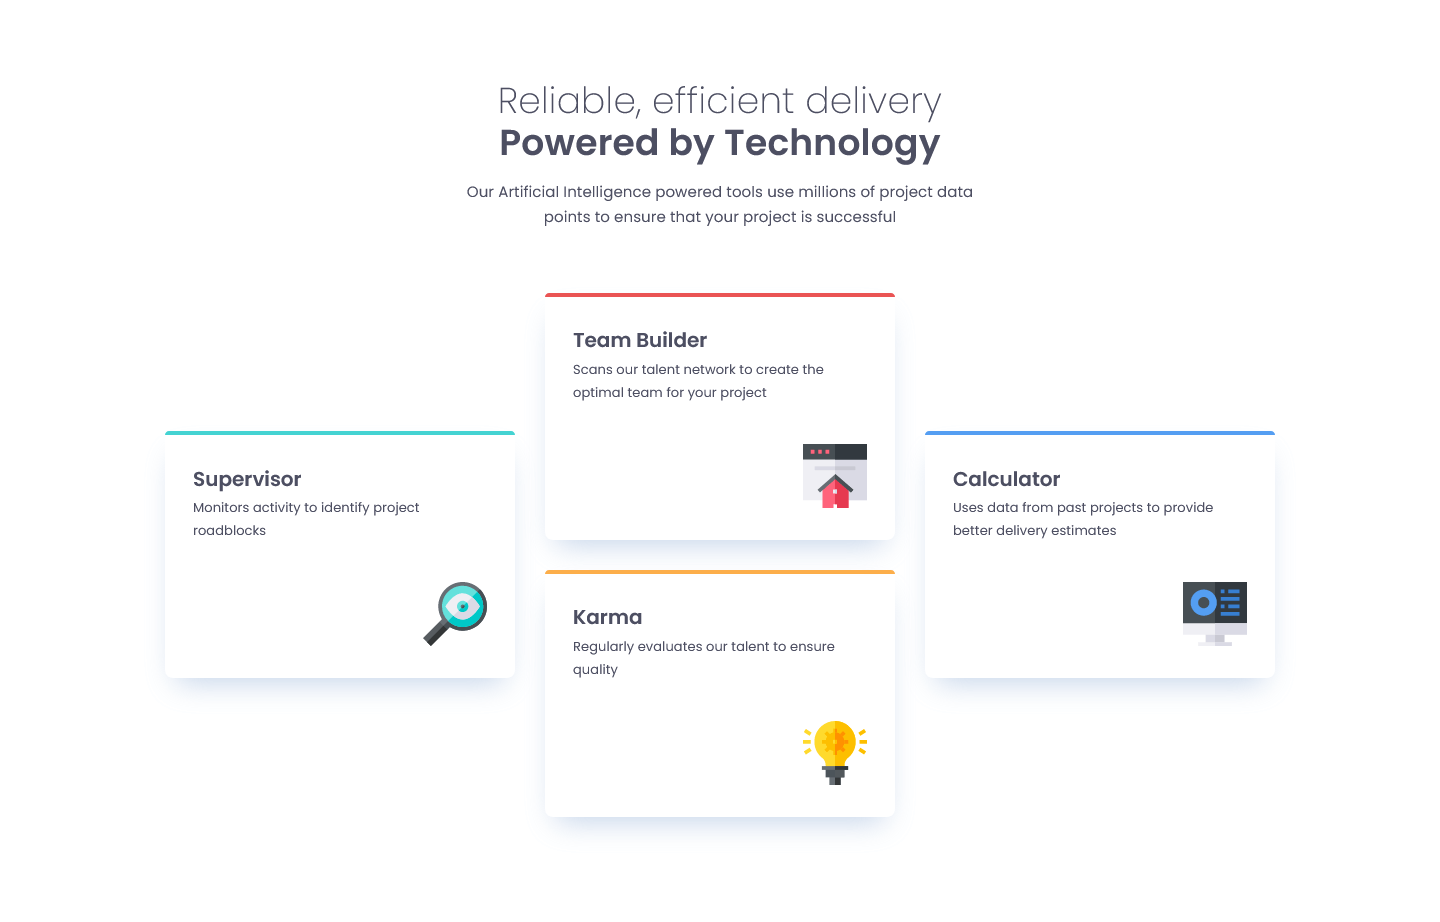
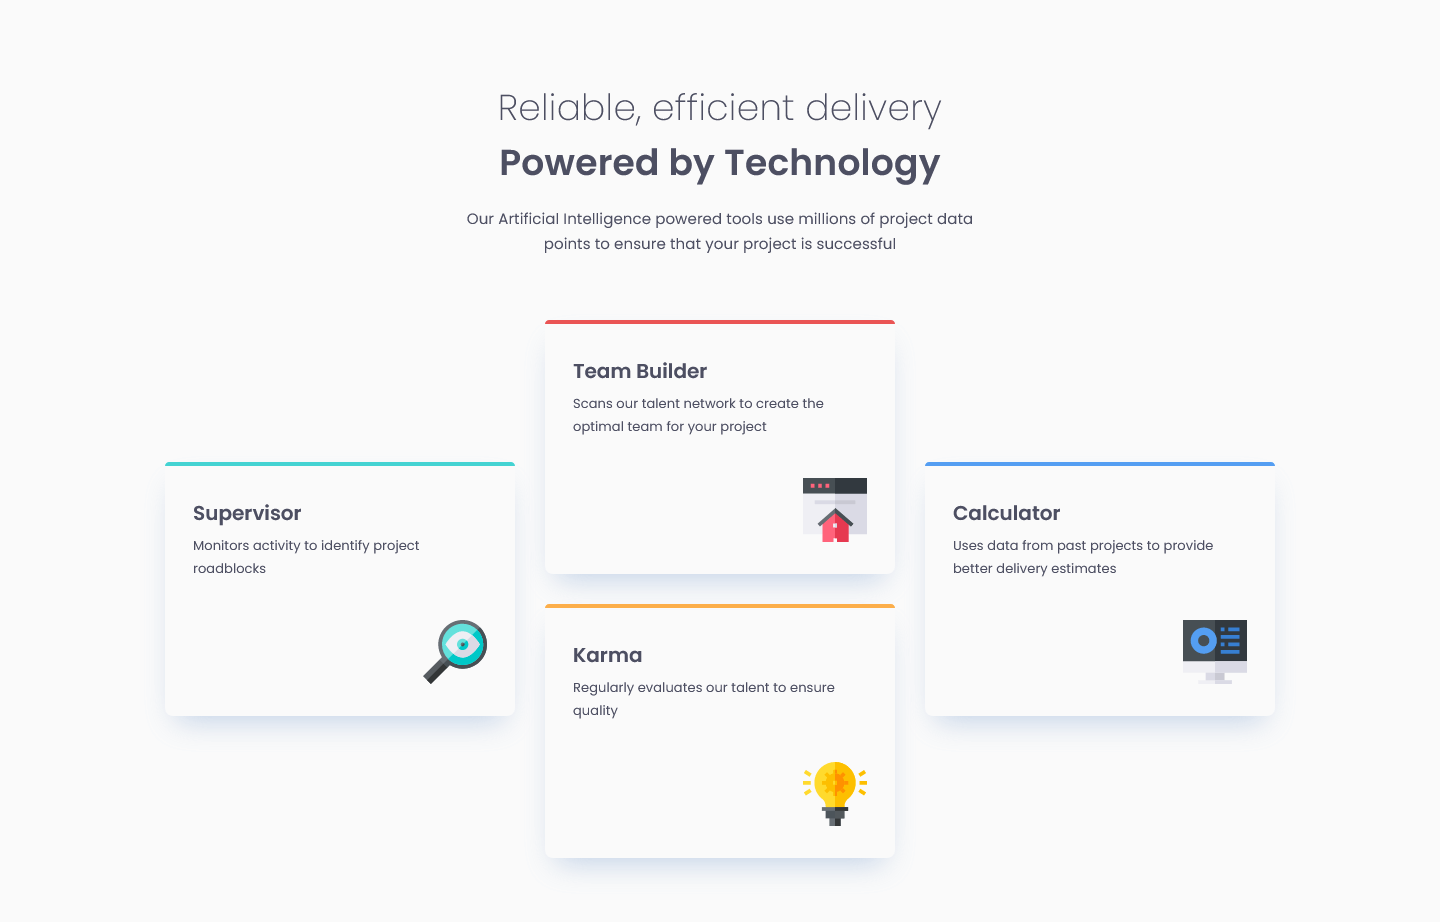
[UPDATE] styles & README.md

diff --git a/styles.css b/styles.css
@@ -29,6 +29,9 @@ span {
 }
 
 /* Mobile styles */
+body {
+  background-color: #fafafa;
+}
 main {
   margin-top: calc((85 / 16) * 1rem);
   margin-bottom: calc((78 / 16) * 1rem);
@@ -45,6 +48,7 @@ h1 {
   font-size: var(--24px);
   font-weight: 275;
   letter-spacing: 0.167px;
+  line-height: normal;
 }
 h1 span {
   font-weight: 600;
@@ -90,6 +94,7 @@ article {
 .content h2 {
   font-size: var(--20px);
   font-weight: 600;
+  line-height: normal;
 }
 .content p {
   font-size: var(--13px);
